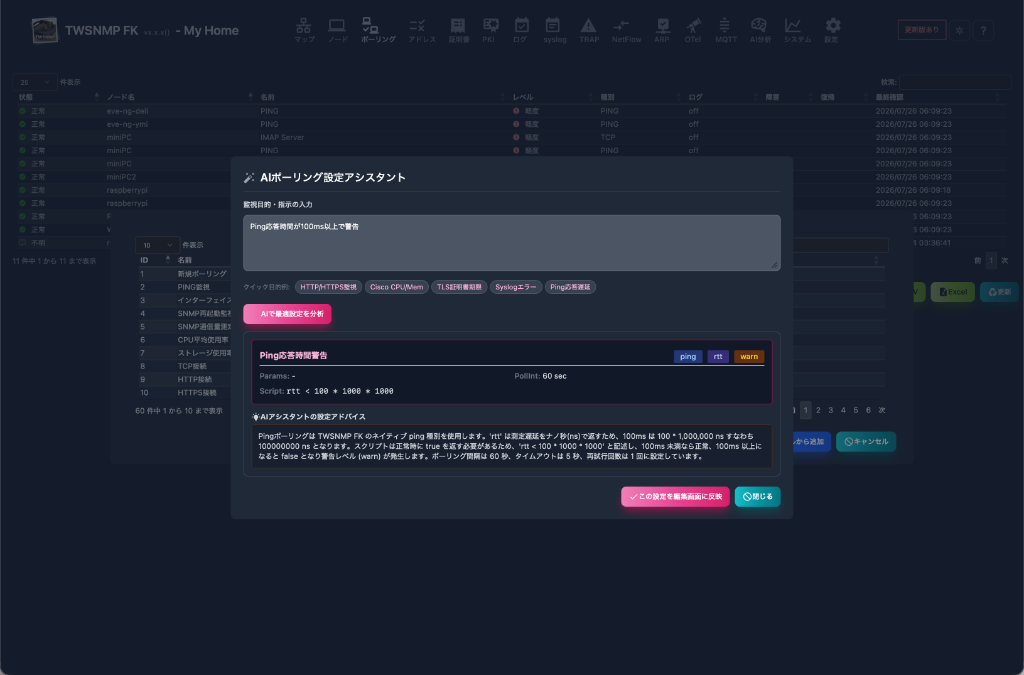
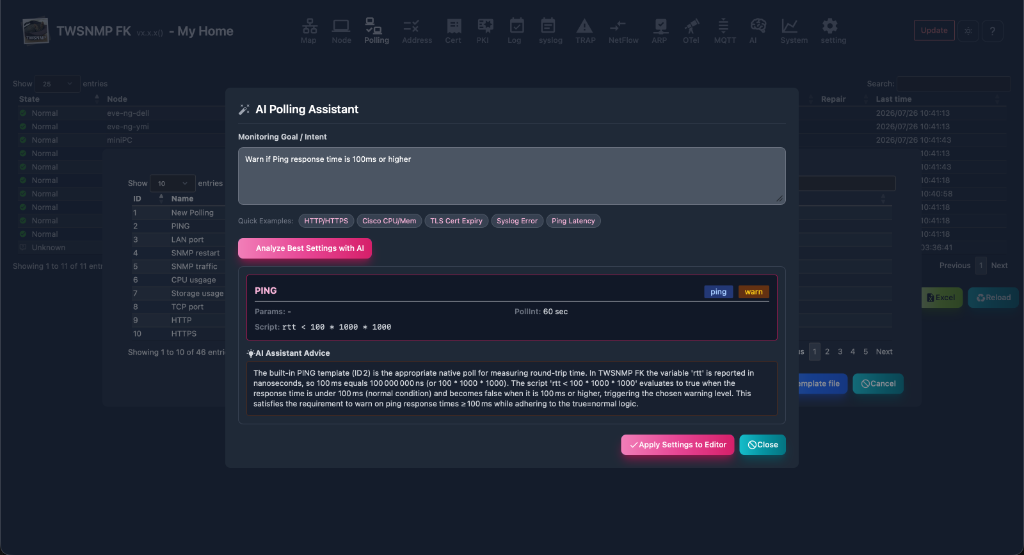
docs: update AI polling assistant English screenshot and button labels

diff --git a/docs/twsnmpfk_en.md b/docs/twsnmpfk_en.md
@@ -764,12 +764,12 @@ An assistant feature that leverages AI (LLM) to automatically generate optimal p
 ---
 | Items | Contents |
 | ---- | ---- |
-| Monitoring goal / instruction input | Enter desired monitoring details or alert conditions in natural language.|
-| Quick goal examples | One-tap input for common monitoring scenarios (Ping response delay, HTTP/HTTPS, Syslog errors, etc.).|
-| Analyze optimal settings with AI | Send request to AI (LLM) based on the instructions to analyze and generate optimal settings.|
+| Monitoring Goal / Intent | Enter desired monitoring details or alert conditions in natural language.|
+| Quick Examples | One-tap input for common monitoring scenarios (Ping Latency, HTTP/HTTPS, Syslog Error, etc.).|
+| Analyze Best Settings with AI | Send request to AI (LLM) based on the instructions to analyze and generate optimal settings.|
 | Setting preview | Preview of the generated polling type, evaluation script, polling interval, and status level.|
-| AI Assistant advice | Detailed explanation and guidance from AI regarding the generated configuration logic.|
-| Apply to edit screen | Apply the AI-generated settings directly to the polling configuration/edit screen.|
+| AI Assistant Advice | Detailed explanation and guidance from AI regarding the generated configuration logic.|
+| Apply Settings to Editor | Apply the AI-generated settings directly to the polling configuration/edit screen.|
 | Close | Close the AI polling setting assistant dialog.|
 
 

diff --git a/docs/index.md b/docs/index.md
@@ -736,12 +736,12 @@ An assistant feature that leverages AI (LLM) to automatically generate optimal p
 
 | Items | Contents |
 | ---- | ---- |
-| Monitoring goal / instruction input | Enter desired monitoring details or alert conditions in natural language.|
-| Quick goal examples | One-tap input for common monitoring scenarios (Ping response delay, HTTP/HTTPS, Syslog errors, etc.).|
-| Analyze optimal settings with AI | Send request to AI (LLM) based on the instructions to analyze and generate optimal settings.|
+| Monitoring Goal / Intent | Enter desired monitoring details or alert conditions in natural language.|
+| Quick Examples | One-tap input for common monitoring scenarios (Ping Latency, HTTP/HTTPS, Syslog Error, etc.).|
+| Analyze Best Settings with AI | Send request to AI (LLM) based on the instructions to analyze and generate optimal settings.|
 | Setting preview | Preview of the generated polling type, evaluation script, polling interval, and status level.|
-| AI Assistant advice | Detailed explanation and guidance from AI regarding the generated configuration logic.|
-| Apply to edit screen | Apply the AI-generated settings directly to the polling configuration/edit screen.|
+| AI Assistant Advice | Detailed explanation and guidance from AI regarding the generated configuration logic.|
+| Apply Settings to Editor | Apply the AI-generated settings directly to the polling configuration/edit screen.|
 | Close | Close the AI polling setting assistant dialog.|
 
 
